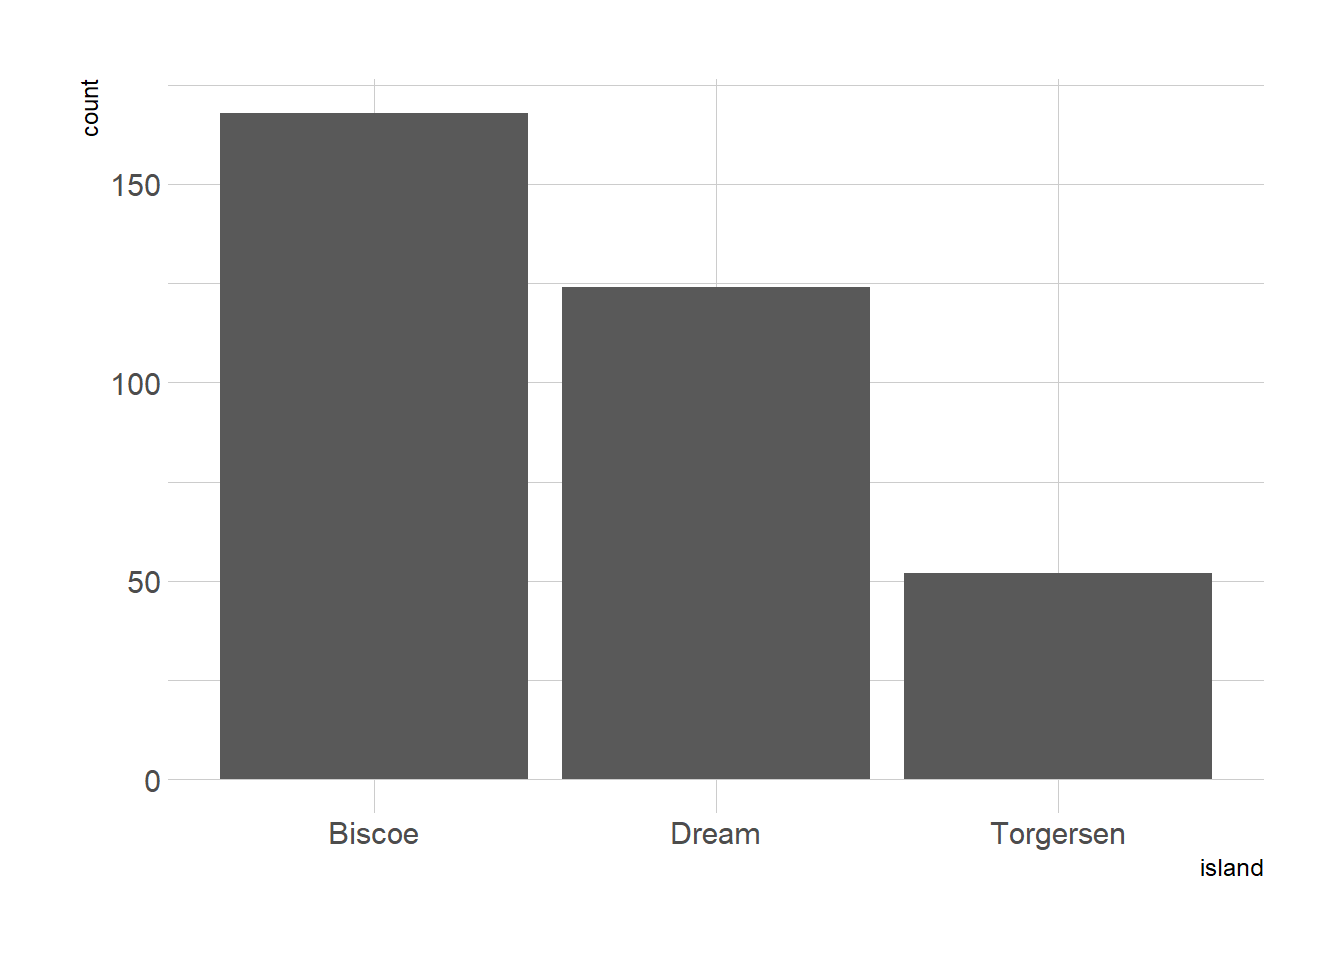
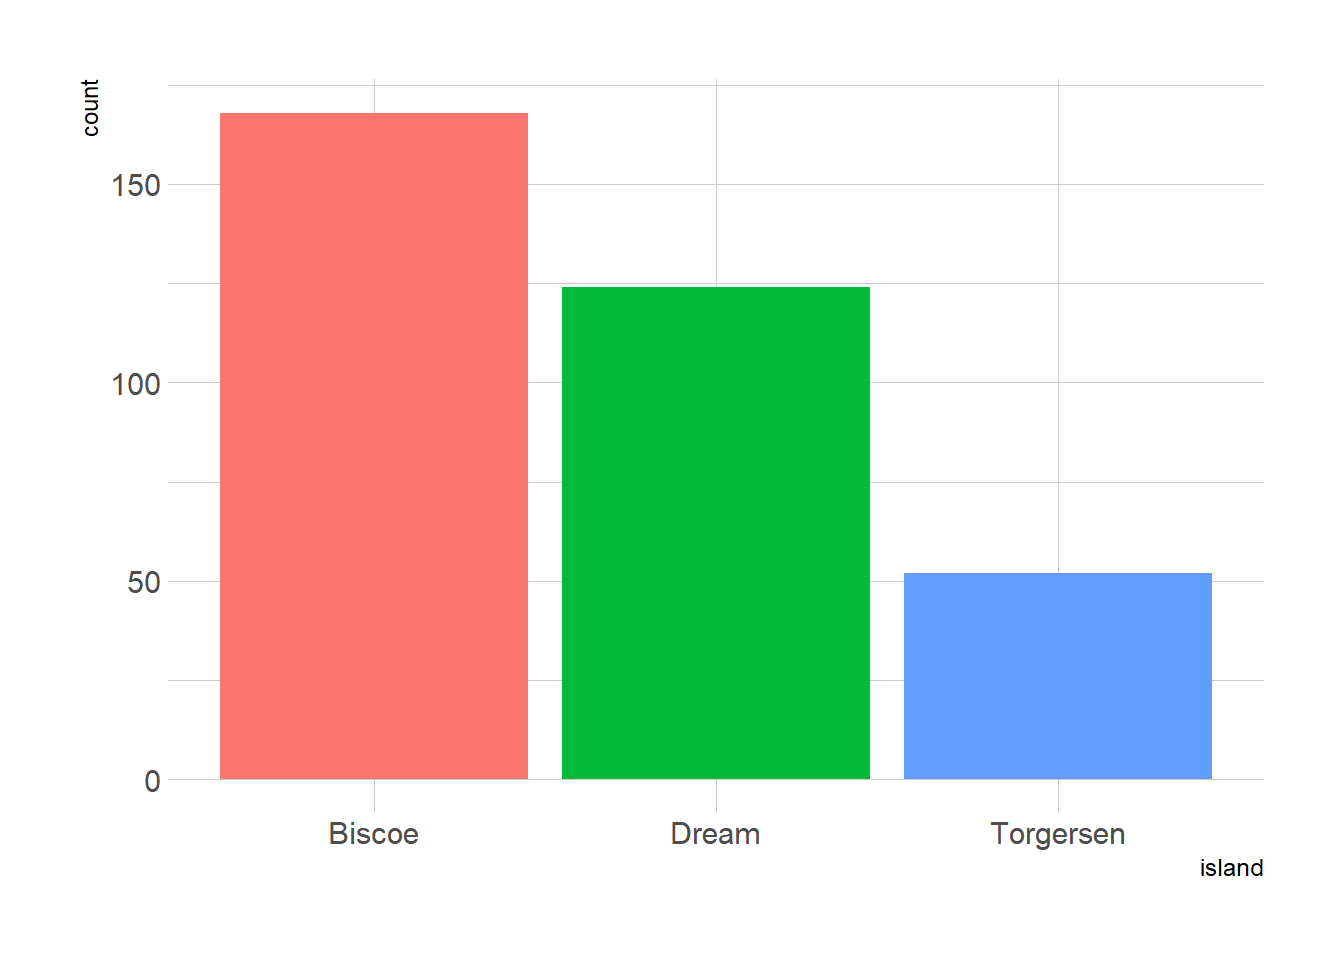
fix typos

diff --git a/content/post/EDA/index.html b/content/post/EDA/index.html
@@ -94,7 +94,7 @@ theme_set(hrbrthemes::theme_ipsum())   # Set a ggplot color, font theme</code></
 <li><p><strong>Tabular data</strong> is a set of values, each associated with a variable and an observation. Tabular data is <em>tidy</em> if each value is placed in its own “cell”, each variable in its own column, and each observation in its own row.</p></li>
 <li><p><strong>Dimensionality</strong> represents the number of variables, or features, of a dataset. The higher the dimensionality, the more we know about the data, but also the higher the computational complexity. There are approaches to reducing the dimensionality without losing predictive power.</p></li>
 <li><p><strong>Sparsity and Density</strong> describe the degree to which data exists for the features in a dataset. For example, if 20 percent of the values in a dataset are missing, the dataset is said to be 20 percent sparse. Density is the complement of sparsity. Geospatial, survival, natural language processing, and text mining datasets are often sparse.</p></li>
-<li><p><strong>Resolution</strong> describes the grain or level of detail in the data. The more detailed the data, the finer (or higher) the resolution. Satellite imagery consists of pixels on a grid spaced at some 3 meters or so on the ground. Aerial imagery is has somewhat higher resolution.</p></li>
+<li><p><strong>Resolution</strong> describes the grain or level of detail in the data. The more detailed the data, the finer (or higher) the resolution. Satellite imagery consists of pixels on a grid spaced at some 3 meters or so on the ground. Aerial imagery has somewhat higher resolution, and images taken at ground level can have very high resolution.</p></li>
 </ul>
 <p>Descriptive statistics are useful in building understanding. They involve the use of measures to describe some of the characteristics of features. For example, categorical features are described in the frequencies, or counts, of their occurrence in the dataset. For continuous data, summary measures like mean and median are often useful.</p>
 <p>For the penguins dataset:</p>
@@ -141,14 +141,14 @@ penguins2 &lt;- penguins %&gt;%
   ggplot(mapping = aes(sched_dep_time)) + 
     geom_freqpoly(mapping = aes(colour = cancelled), binwidth = 1/4)</code></pre>
 <p><img src="{{< blogdown/postref >}}index_files/figure-html/unnamed-chunk-5-1.png" width="672" /></p>
-<p>This example is also a good example of an unbalanced dataset, where the class of a variable of interest may be overwhelmed by the other classes. There are analytics techniques for synthesizing upsampling, or resampling, to prepare the data to better understand the underlying patterns.</p>
+<p>This is also a good example of an unbalanced dataset, where the class of a variable of interest may be overwhelmed by the other classes. There are analytics techniques for synthesizing upsampling, or resampling, to prepare the data to better understand the underlying patterns.</p>
 </div>
 <div id="variance-and-covariance" class="section level3">
 <h3>Variance and covariance</h3>
 <p><strong>Variance</strong> is the tendency of the values of a single variable to change from measurement to measurement. Variation is easily observed in real life; measuring any continuous variable twice, there will often be two different results. This is true even when measuring quantities that are constant, like the speed of light. Each measurement will include a small amount of error that varies from measurement to measurement. Every variable has its own pattern of variation. The best way to understand that pattern is to visualize the distribution of the variable’s values.</p>
 <p>The means of visualizing the distribution of a variable will depend on whether the variable is categorical or continuous. A variable is <strong>categorical</strong> if it can only take one of a small set of values. To examine the distribution of counts of a categorical variable, use a bar chart:</p>
 <pre class="r"><code>ggplot(data = penguins) +
-  geom_bar(mapping = aes(x = island))</code></pre>
+  geom_bar(mapping = aes(x = island, fill = island), show.legend = FALSE)</code></pre>
 <p><img src="{{< blogdown/postref >}}index_files/figure-html/unnamed-chunk-6-1.png" width="672" /></p>
 <p>The height of the bars displays how many observations occurred with each value. A table that diplays the same information:</p>
 <pre class="r"><code>penguins %&gt;% 
